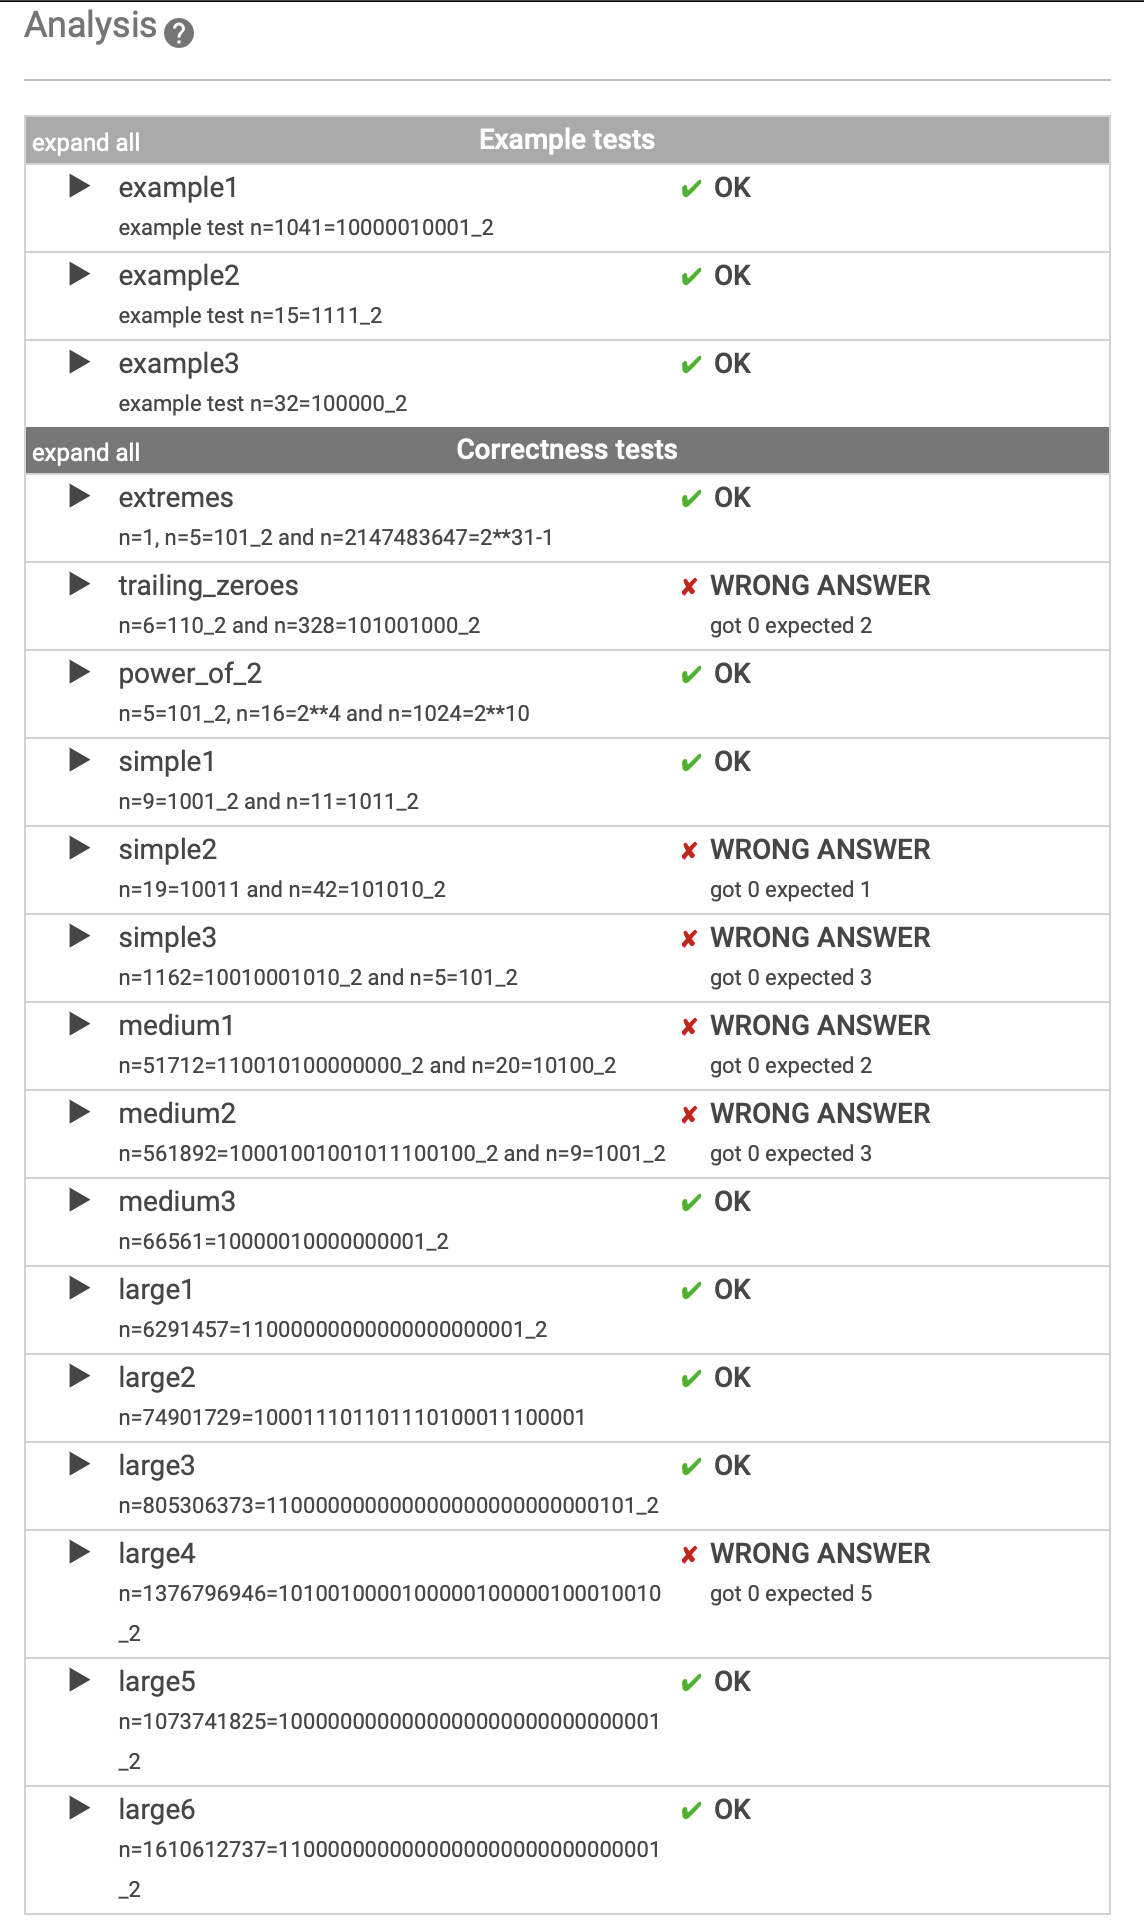
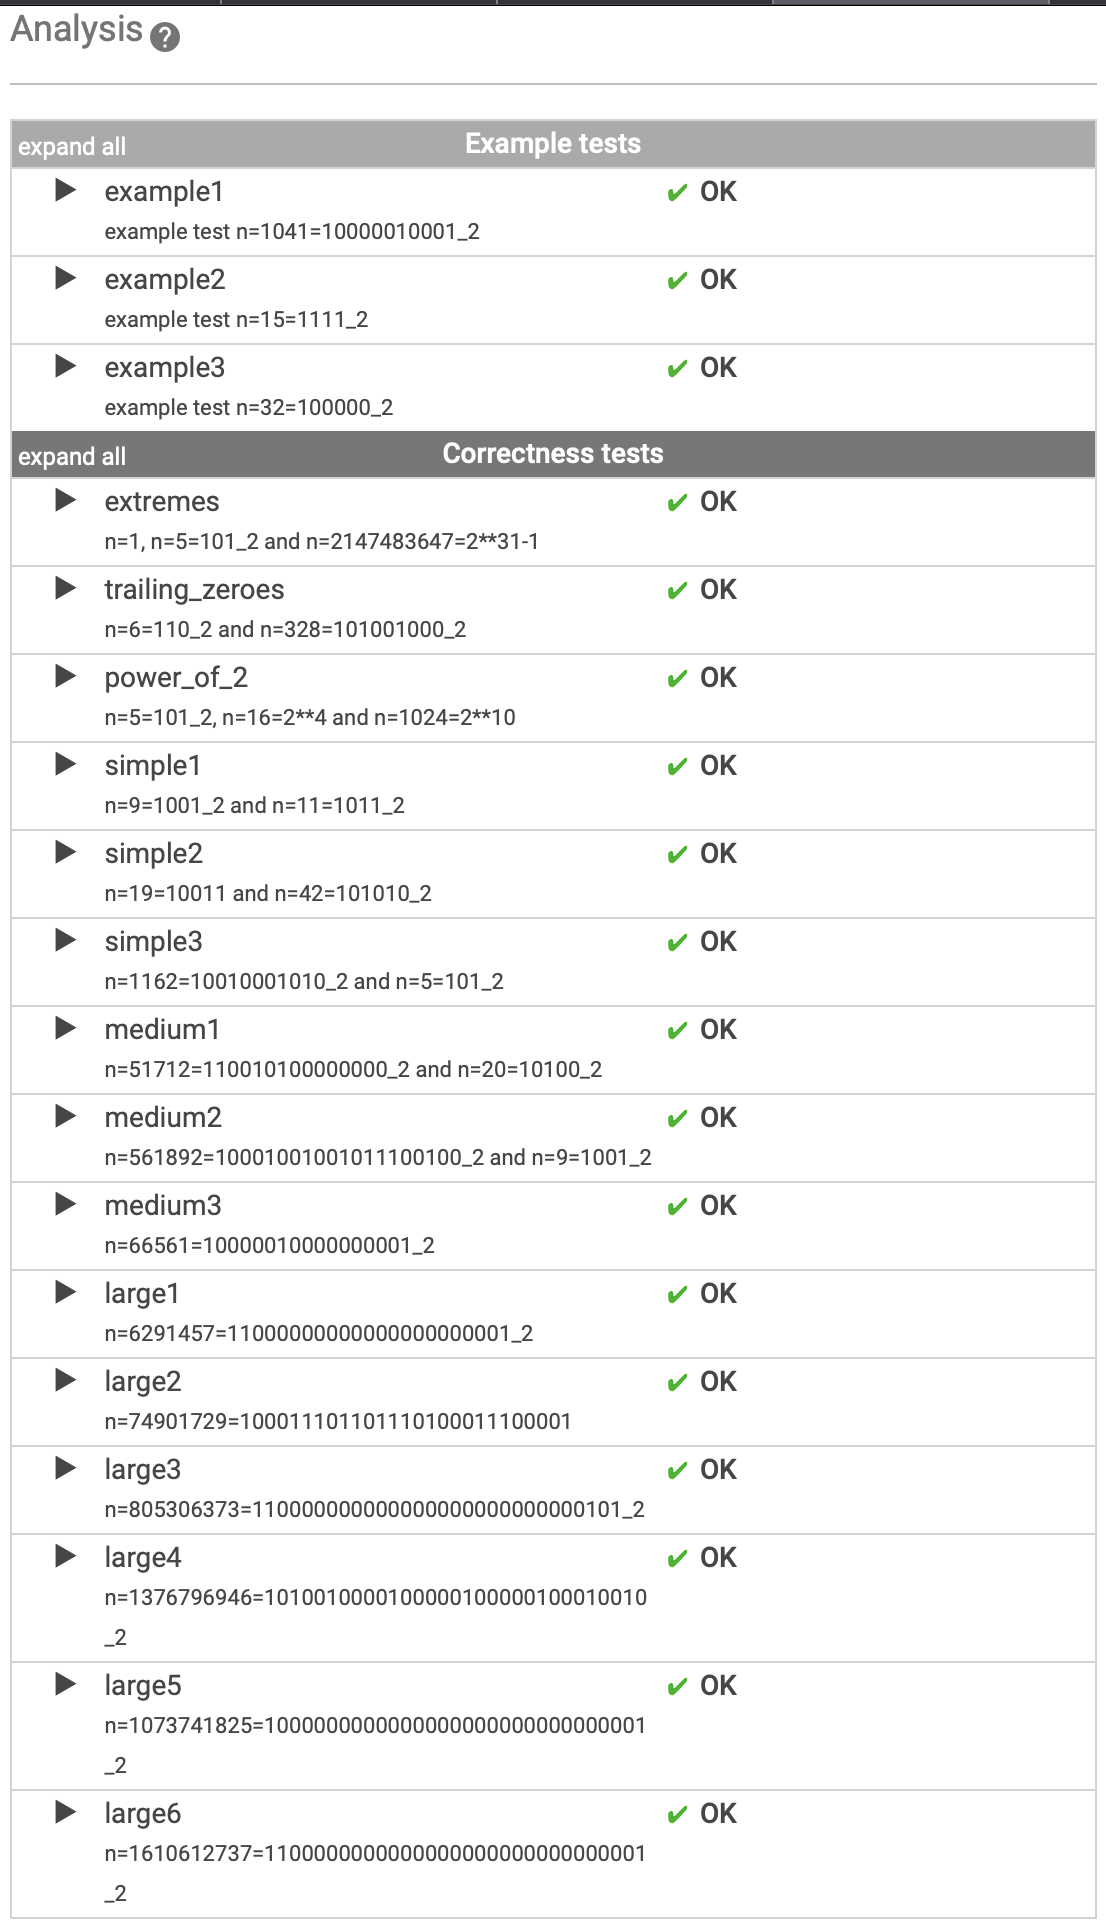
finish "Binary Gap" with 100% result

Changed region(s): [[0.0, 0.0, 1.0, 0.9969], [0.5841, 0.4361, 0.83, 0.7165]]

diff --git a/1.BinaryGap/solution.js b/1.BinaryGap/solution.js
@@ -4,7 +4,13 @@ function solution(N) {
 
   let sortArr = zeroBinaryArr
     .filter(
-      (item, i, arr) => item !== '' && arr[arr.length -1] === ''
+      (item, i, arr) => {
+        if(item !== '' && arr[arr.length -1] === ''){
+          return true
+        } else if (arr[arr.length -1] !== ''){
+          arr[arr.length -1] = ''
+        }
+      }
     )
     .sort(
       (a, b) => {
